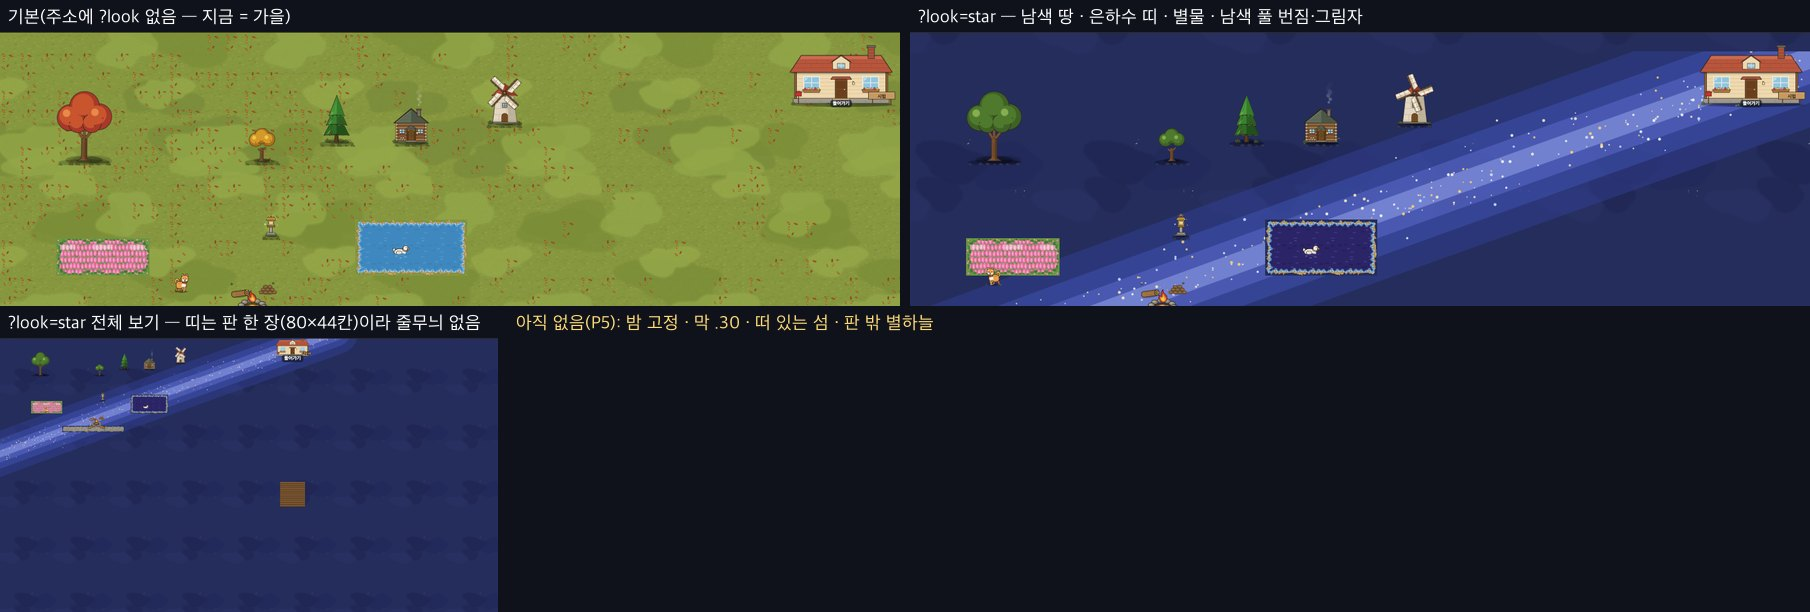
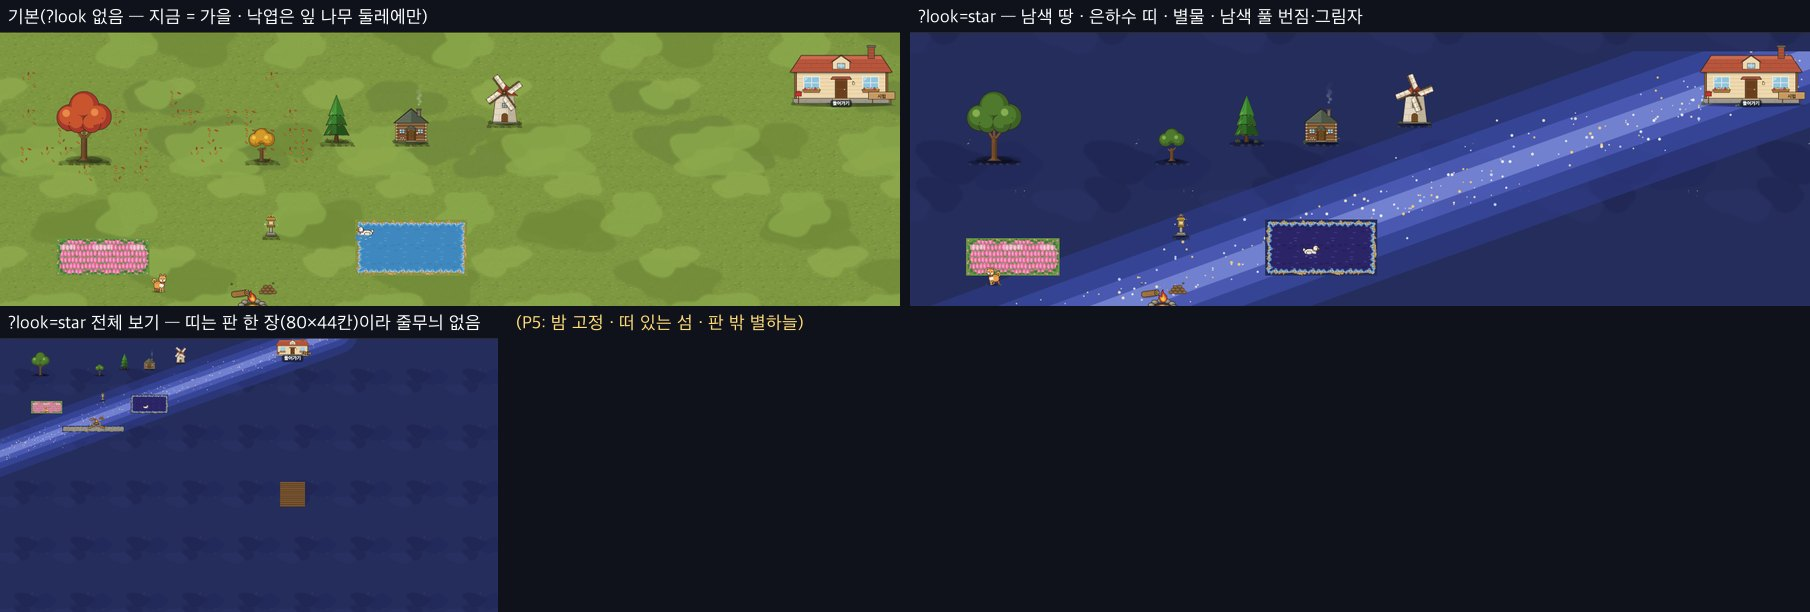
test(deco): 가을 낙엽을 픽셀로 — 잎 나무 둘레 밖 잔디 칸은 한 점도 다르지 않다 · #1091 문서 그림의 낡은 '기본' 판 바꿈 (보스 확인 · 코드 0)
보스(#1091 뒤): '#1091 사진 왼쪽 기본(가을)에 붉은갈색 점이 마당 전체에 · 막도 올리브'.
- 확인: 그 사진은 22:14 에 #1082 고침 전 판(흩뿌림 .2 전체 · 막 .26)으로 찍은 것이었다. 지금 main(4ed2486)을 같은 마당 · 같은 자리로 찍으면 낙엽은 잎 나무 둘레에만 · 막은 옅다
  (docs/deco_autumn_check_20260924/old_photo_vs_main.jpg). ① 흩뿌림 · ② ground_tuft 무늬 · ③ 배율 — 셋 다 아니고 '사진이 옛것'.
- 하네스 ㊼ 한 줄 '계절_가을낙엽_픽셀_나무밖0': 잎 나무 하나를 두고 그린 땅과 나무 없이 그린 땅을 칸마다 픽셀로 견줘, 둘레(R) 밖 잔디 칸 1680 개가 한 점도 다르지 않음
  (둘레 안은 달라야 한다 — 낙엽이 있다). 나무 밖에 낙엽을 흘리게 되돌리면 false 로 잡히는 것 확인.
- docs/deco_star_p3_20260924/base_star_fit.jpg 의 왼쪽 판을 지금 main 으로 바꿈(별빛 두 판은 그대로).
코드 · 저장 · 경제 값 0.

diff --git a/scripts/unit/deco-save-count/test.js b/scripts/unit/deco-save-count/test.js
@@ -2010,6 +2010,25 @@
         } finally { _floorBmp = ofb; _dCtx.drawImage = odi; CUR.houseDecorations = keepH; }
         const z = getDecoSize('d_y12'), cx = 20 + z.w / 2, cy = 12 + z.h / 2, rx = (z.w / 2 + 3) * 1.3 + .5, ry = (z.h / 2 + 2) * 1.3 + .5;
         out('계절_흩뿌림_나무없으면0', none === 0);
+        //  픽셀로도(보스 · #1091 뒤): 가을 잎 나무 하나를 두고 땅을 그린 것과 나무 없이 그린 것을 칸마다 견준다 — 나무 둘레(R) 밖 잔디 칸은 픽셀이 한 점도 다르지 않다
+        {
+          const off = document.createElement('canvas'), Cx = 12, keepCtx = _dCtx, keepC = _dC; off.width = 60 * Cx; off.height = 30 * Cx;
+          const octx = off.getContext('2d');
+          _decoSeasonOv = 'autumn';
+          for (let i = 0; i < 30 && !(_floorImg('season_leaves_a') && _floorImg('season_leaves_b')); i++) await sleep(100);
+          const paint = list => { CUR.houseDecorations = list; octx.setTransform(1, 0, 0, 1, 0, 0); octx.clearRect(0, 0, off.width, off.height); _decoGroundPatch(0, 0, 30, 60, () => true); return octx.getImageData(0, 0, off.width, off.height).data; };
+          let bare, leaf;
+          try { _dCtx = octx; _dC = Cx; const base = keepH.filter(p => p.area !== 'yard'); bare = paint(base); leaf = paint(base.concat([{ id: 'd_y9', area: 'yard', row: 12, col: 20 }])); }
+          finally { _dCtx = keepCtx; _dC = keepC; CUR.houseDecorations = keepH; }
+          const z9 = getDecoSize('d_y9'), cx9 = 20 + z9.w / 2, cy9 = 12 + z9.h / 2, R = Math.max(z9.w / 2 + 3, z9.h / 2 + 2) * 1.3 + 1;
+          let far = 0, farDiff = 0, near = 0;
+          for (let r = 0; r < 30; r++) for (let c = 0; c < 60; c++) {
+            let diff = false;
+            for (let y = r * Cx; y < (r + 1) * Cx && !diff; y++) for (let x = c * Cx; x < (c + 1) * Cx; x++) { const i = (y * off.width + x) * 4; if (bare[i] !== leaf[i] || bare[i + 1] !== leaf[i + 1] || bare[i + 2] !== leaf[i + 2]) { diff = true; break; } }
+            if (Math.hypot(c + .5 - cx9, r + .5 - cy9) > R) { far++; if (diff) farDiff++; } else if (diff) near++;
+          }
+          out('계절_가을낙엽_픽셀_나무밖0', far > 1000 && farDiff === 0 && near > 0 ? true : 'far' + far + '/diff' + farDiff + '/near' + near);
+        }
         out('계절_흩뿌림_나무둘레만', tree.length > 3 && tree.every(([r, c]) => Math.abs(c + .5 - cx) <= rx && Math.abs(r + .5 - cy) <= ry));
       }
       _decoSeasonOv = null;
